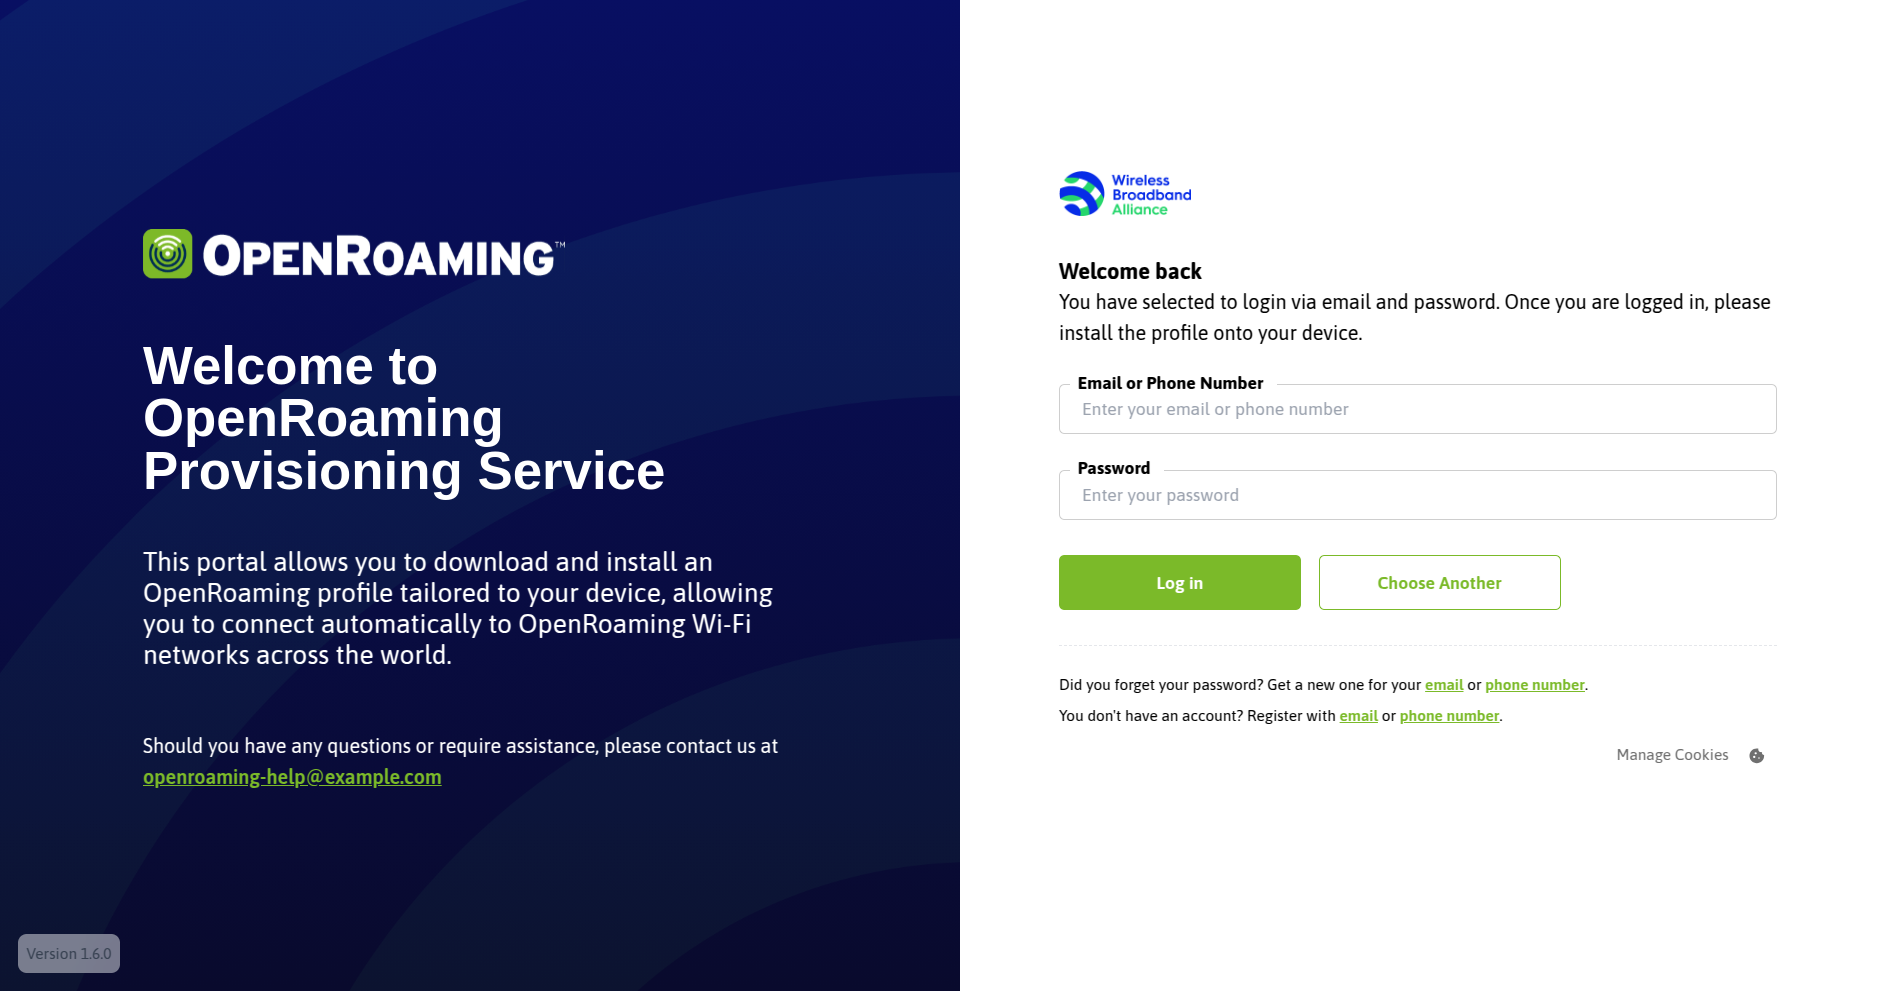
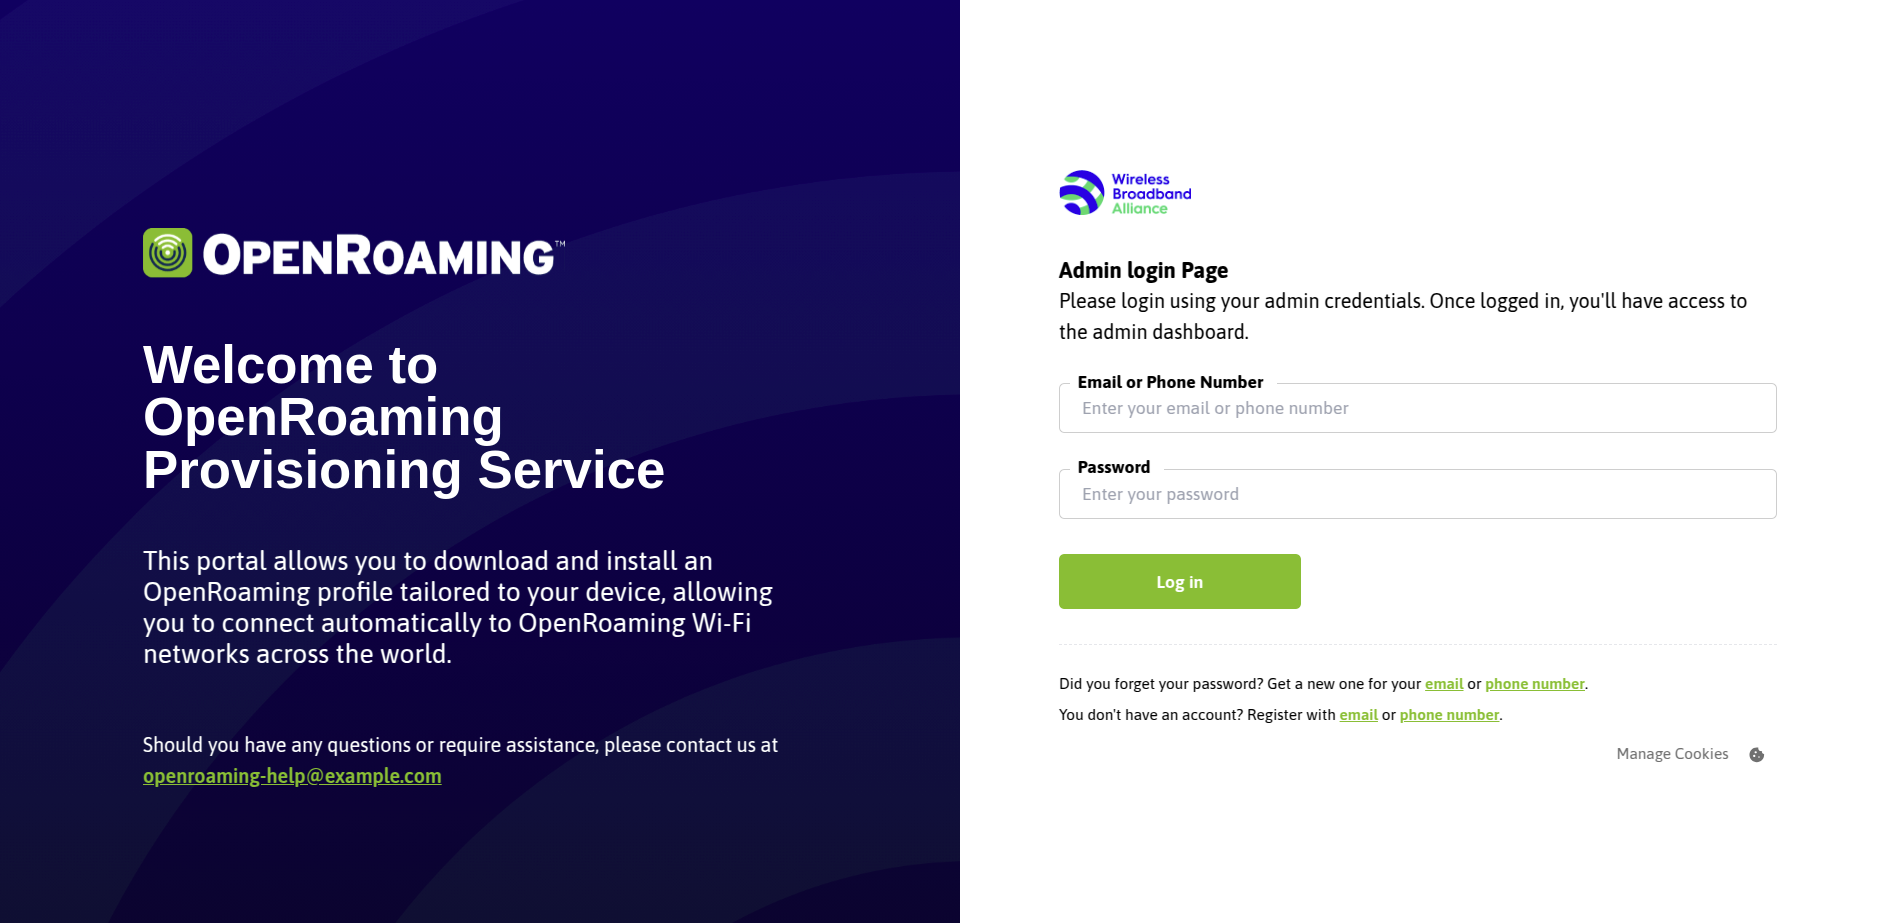
Update PORTALGUI.md

diff --git a/docs/PORTALGUI.md b/docs/PORTALGUI.md
@@ -35,7 +35,8 @@ improves the platform's security by preventing unwanted access.
 
 ![After_Verification](../assets/wba_screenshots/after_verification.png)
 
-After successfully completing the verification process, the user will be directed to this page.
+After successfully completing the verification process, the user will be directed to the landing page or the two-factor
+configuration / validation depending if it's present on for the account.
 The actions taken during the verification process depend on the mode in
 which the user created their account.
 
@@ -58,11 +59,10 @@ to the portal's features while keeping user data secure.
 
 At the final stage of the process, users have the option to download a profile customized for their specific operating
 system.
-The OpenRoaming Provisioning Portal has intelligent auto-detection that identifies the type of device being
+The OpenRoaming Provisioning Portal has auto-detection that identifies the type of device being
 used.
 
-When the user clicks the "Download" button, the portal generates a profile with information based on the user's account
-information.
+When the user clicks the "Download" button, the portal generates a profile with information based on the user's account.
 This profile is designed to improve the Wi-Fi experience by providing smooth connectivity and increased
 security.
 
@@ -80,7 +80,8 @@ Say goodbye to manual login problems and enjoy a seamless, secure, and personali
 The OpenRoaming Provisioning Portal also has an easy and intuitive admin interface, allowing administrators to easily
 administer and customize the platform.
 The admin dashboard includes a number of features and tools that help simplify
-the Wi-Fi provisioning process and guarantee that it runs smoothly. Here's an overview of the admin dashboard/login and its
+the Wi-Fi provisioning process and guarantee that it runs smoothly. Here's an overview of the admin dashboard/login and
+its
 primary features:
 
 ### 1. Admin Login
